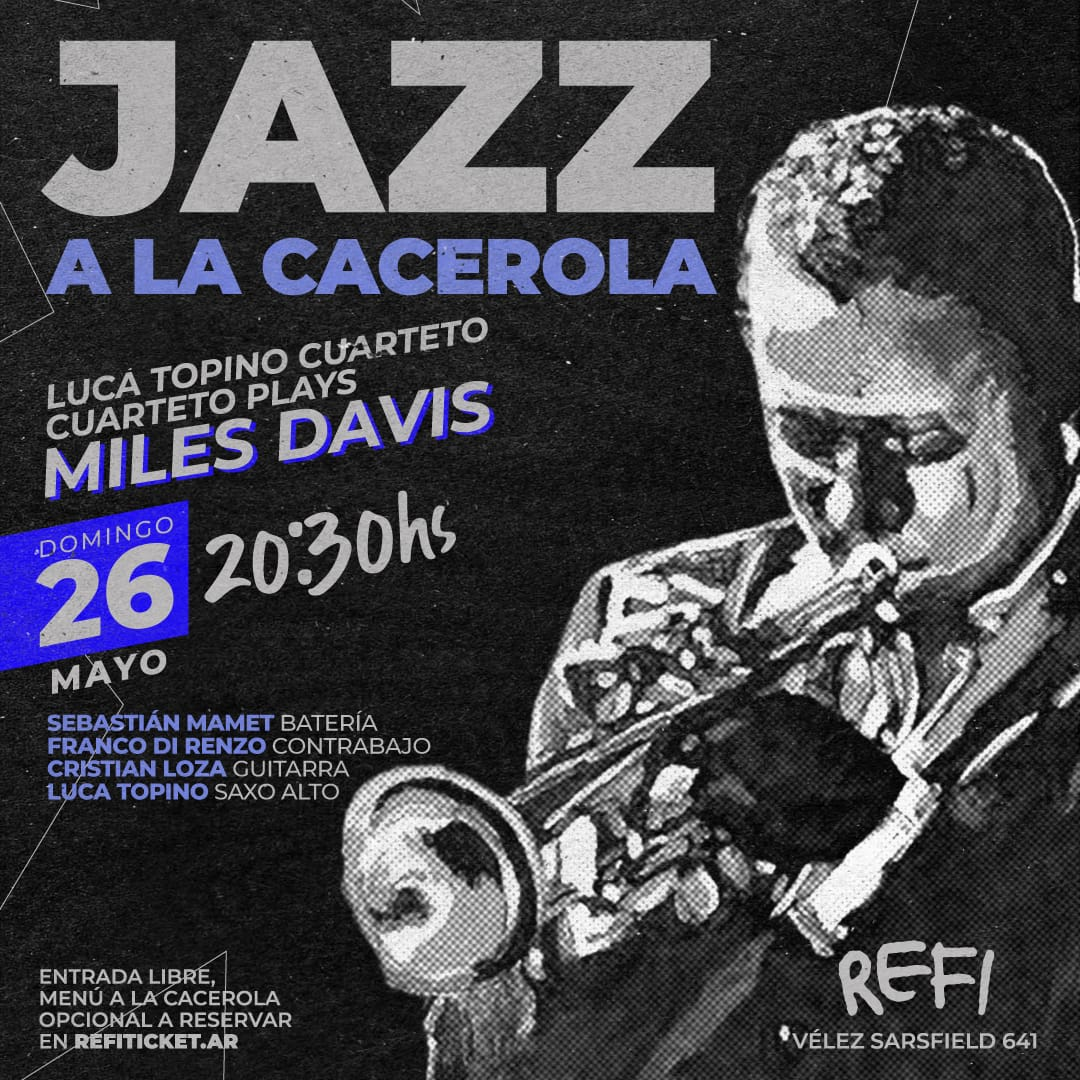
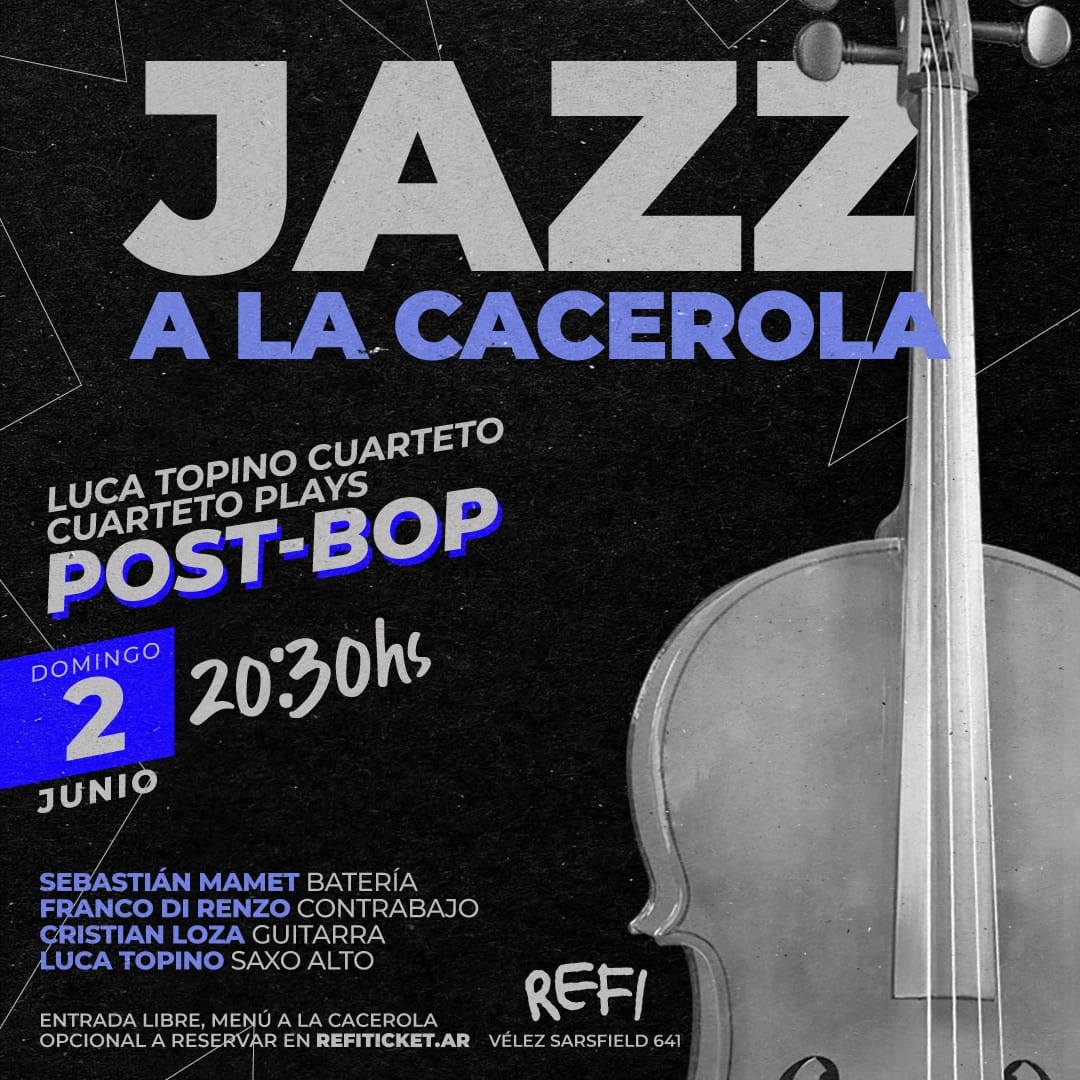
v 29-5

diff --git a/index.html b/index.html
@@ -135,7 +135,7 @@
             <div class="card-details-container">
               <div class="card-details">
                 <svg viewBox="0 0 24 24" fill="none" xmlns="http://www.w3.org/2000/svg"><g id="SVGRepo_bgCarrier" stroke-width="0"></g><g id="SVGRepo_tracerCarrier" stroke-linecap="round" stroke-linejoin="round"></g><g id="SVGRepo_iconCarrier"> <path d="M3 9H21M7 3V5M17 3V5M6 12H8M11 12H13M16 12H18M6 15H8M11 15H13M16 15H18M6 18H8M11 18H13M16 18H18M6.2 21H17.8C18.9201 21 19.4802 21 19.908 20.782C20.2843 20.5903 20.5903 20.2843 20.782 19.908C21 19.4802 21 18.9201 21 17.8V8.2C21 7.07989 21 6.51984 20.782 6.09202C20.5903 5.71569 20.2843 5.40973 19.908 5.21799C19.4802 5 18.9201 5 17.8 5H6.2C5.0799 5 4.51984 5 4.09202 5.21799C3.71569 5.40973 3.40973 5.71569 3.21799 6.09202C3 6.51984 3 7.07989 3 8.2V17.8C3 18.9201 3 19.4802 3.21799 19.908C3.40973 20.2843 3.71569 20.5903 4.09202 20.782C4.51984 21 5.07989 21 6.2 21Z" stroke="#ffffff" stroke-width="2" stroke-linecap="round"></path> </g></svg>
-                <p>Miércoles 1 de Mayo</p>
+                <p>Miércoles de Mayo</p>
               </div>
               <div class="card-details">
                 <svg viewBox="0 0 24 24" fill="none" xmlns="http://www.w3.org/2000/svg"><g id="SVGRepo_bgCarrier" stroke-width="0"></g><g id="SVGRepo_tracerCarrier" stroke-linecap="round" stroke-linejoin="round"></g><g id="SVGRepo_iconCarrier"> <path d="M12 7V12L14.5 13.5M21 12C21 16.9706 16.9706 21 12 21C7.02944 21 3 16.9706 3 12C3 7.02944 7.02944 3 12 3C16.9706 3 21 7.02944 21 12Z" stroke="#ffffff" stroke-width="2" stroke-linecap="round" stroke-linejoin="round"></path></g></svg>
@@ -194,186 +194,6 @@
           </div>
         </div>
 
-
-        <div class="event-card"
-          type="text"
-          data-toggle="collapse"
-          data-target="#mundo"
-          aria-expanded="false"
-          aria-controls="mundo">
-          <img src="./assets/mundo_propio_mayo.jpeg" alt="Evento" />
-          <h3>UN MUNDO PROPIO <br/> Taller de escritura y lectura</h3>
-          <div class="collapse" id="mundo">
-            <div class="card-details-container">
-              <div class="card-details">
-                <svg viewBox="0 0 24 24" fill="none" xmlns="http://www.w3.org/2000/svg"><g id="SVGRepo_bgCarrier" stroke-width="0"></g><g id="SVGRepo_tracerCarrier" stroke-linecap="round" stroke-linejoin="round"></g><g id="SVGRepo_iconCarrier"> <path d="M3 9H21M7 3V5M17 3V5M6 12H8M11 12H13M16 12H18M6 15H8M11 15H13M16 15H18M6 18H8M11 18H13M16 18H18M6.2 21H17.8C18.9201 21 19.4802 21 19.908 20.782C20.2843 20.5903 20.5903 20.2843 20.782 19.908C21 19.4802 21 18.9201 21 17.8V8.2C21 7.07989 21 6.51984 20.782 6.09202C20.5903 5.71569 20.2843 5.40973 19.908 5.21799C19.4802 5 18.9201 5 17.8 5H6.2C5.0799 5 4.51984 5 4.09202 5.21799C3.71569 5.40973 3.40973 5.71569 3.21799 6.09202C3 6.51984 3 7.07989 3 8.2V17.8C3 18.9201 3 19.4802 3.21799 19.908C3.40973 20.2843 3.71569 20.5903 4.09202 20.782C4.51984 21 5.07989 21 6.2 21Z" stroke="#ffffff" stroke-width="2" stroke-linecap="round"></path> </g></svg>
-                <p>Todos los martes</p>
-              </div>
-              <div class="card-details">
-                <svg viewBox="0 0 24 24" fill="none" xmlns="http://www.w3.org/2000/svg"><g id="SVGRepo_bgCarrier" stroke-width="0"></g><g id="SVGRepo_tracerCarrier" stroke-linecap="round" stroke-linejoin="round"></g><g id="SVGRepo_iconCarrier"> <path d="M12 7V12L14.5 13.5M21 12C21 16.9706 16.9706 21 12 21C7.02944 21 3 16.9706 3 12C3 7.02944 7.02944 3 12 3C16.9706 3 21 7.02944 21 12Z" stroke="#ffffff" stroke-width="2" stroke-linecap="round" stroke-linejoin="round"></path></g></svg>
-                <p>19:30 hs a 21 hs</p>
-              </div>
-              <div class="card-details">
-                <svg viewBox="0 0 24 24" fill="none" xmlns="http://www.w3.org/2000/svg"><g id="SVGRepo_bgCarrier" stroke-width="0"></g><g id="SVGRepo_tracerCarrier" stroke-linecap="round" stroke-linejoin="round"></g><g id="SVGRepo_iconCarrier"><path d="M12 21C15.5 17.4 19 14.1764 19 10.2C19 6.22355 15.866 3 12 3C8.13401 3 5 6.22355 5 10.2C5 14.1764 8.5 17.4 12 21Z" stroke="#ffffff" stroke-width="2" stroke-linecap="round" stroke-linejoin="round"></path><path d="M12 13C13.6569 13 15 11.6569 15 10C15 8.34315 13.6569 7 12 7C10.3431 7 9 8.34315 9 10C9 11.6569 10.3431 13 12 13Z" stroke="#ffffff" stroke-width="2" stroke-linecap="round" stroke-linejoin="round"></path></g></svg>
-                <p>REFI (Rosario)</p>
-              </div>
-              <div class="card-details">
-                <svg viewBox="0 0 24 24" fill="none" xmlns="http://www.w3.org/2000/svg"><g id="SVGRepo_bgCarrier" stroke-width="0"></g><g id="SVGRepo_tracerCarrier" stroke-linecap="round" stroke-linejoin="round"></g><g id="SVGRepo_iconCarrier"> <path d="M14 14H17M14 10H17M9 9.5V8.5M9 9.5H11.0001M9 9.5C7.20116 9.49996 7.00185 9.93222 7.0001 10.8325C6.99834 11.7328 7.00009 12 9.00009 12C11.0001 12 11.0001 12.2055 11.0001 13.1667C11.0001 13.889 11.0001 14.5 9.00009 14.5M9.00009 14.5L9 15.5M9.00009 14.5H7.0001M6.2 19H17.8C18.9201 19 19.4802 19 19.908 18.782C20.2843 18.5903 20.5903 18.2843 20.782 17.908C21 17.4802 21 16.9201 21 15.8V8.2C21 7.0799 21 6.51984 20.782 6.09202C20.5903 5.71569 20.2843 5.40973 19.908 5.21799C19.4802 5 18.9201 5 17.8 5H6.2C5.0799 5 4.51984 5 4.09202 5.21799C3.71569 5.40973 3.40973 5.71569 3.21799 6.09202C3 6.51984 3 7.07989 3 8.2V15.8C3 16.9201 3 17.4802 3.21799 17.908C3.40973 18.2843 3.71569 18.5903 4.09202 18.782C4.51984 19 5.07989 19 6.2 19Z" stroke="#ffffff" stroke-width="2" stroke-linecap="round" stroke-linejoin="round"></path> </g></svg>
-                <p>$12,000</p>
-              </div>
-              <button type="button" class="boton-compra btn btn-success">
-                <a href="https://refiticket.ar/UN-MUNDO-PROPIO-MAYO/">
-                  <span>CONSEGUIR ENTRADAS</span>
-                </a>
-              </button>
-            </div>
-          </div>
-        </div>
-
-
-
-        <div class="event-card"
-          type="text"
-          data-toggle="collapse"
-          data-target="#ure"
-          aria-expanded="false"
-          aria-controls="ure">
-          <img src="./assets/URE.jpeg" alt="Evento" />
-          <h3>URE</h3>
-          <div class="collapse" id="ure">
-            <div class="card-details-container">
-              <div class="card-details">
-                <svg viewBox="0 0 24 24" fill="none" xmlns="http://www.w3.org/2000/svg"><g id="SVGRepo_bgCarrier" stroke-width="0"></g><g id="SVGRepo_tracerCarrier" stroke-linecap="round" stroke-linejoin="round"></g><g id="SVGRepo_iconCarrier"> <path d="M3 9H21M7 3V5M17 3V5M6 12H8M11 12H13M16 12H18M6 15H8M11 15H13M16 15H18M6 18H8M11 18H13M16 18H18M6.2 21H17.8C18.9201 21 19.4802 21 19.908 20.782C20.2843 20.5903 20.5903 20.2843 20.782 19.908C21 19.4802 21 18.9201 21 17.8V8.2C21 7.07989 21 6.51984 20.782 6.09202C20.5903 5.71569 20.2843 5.40973 19.908 5.21799C19.4802 5 18.9201 5 17.8 5H6.2C5.0799 5 4.51984 5 4.09202 5.21799C3.71569 5.40973 3.40973 5.71569 3.21799 6.09202C3 6.51984 3 7.07989 3 8.2V17.8C3 18.9201 3 19.4802 3.21799 19.908C3.40973 20.2843 3.71569 20.5903 4.09202 20.782C4.51984 21 5.07989 21 6.2 21Z" stroke="#ffffff" stroke-width="2" stroke-linecap="round"></path> </g></svg>
-                <p>Miércoles 22 de Mayo</p>
-              </div>
-              <div class="card-details">
-                <svg viewBox="0 0 24 24" fill="none" xmlns="http://www.w3.org/2000/svg"><g id="SVGRepo_bgCarrier" stroke-width="0"></g><g id="SVGRepo_tracerCarrier" stroke-linecap="round" stroke-linejoin="round"></g><g id="SVGRepo_iconCarrier"> <path d="M12 7V12L14.5 13.5M21 12C21 16.9706 16.9706 21 12 21C7.02944 21 3 16.9706 3 12C3 7.02944 7.02944 3 12 3C16.9706 3 21 7.02944 21 12Z" stroke="#ffffff" stroke-width="2" stroke-linecap="round" stroke-linejoin="round"></path></g></svg>
-                <p>20 hs</p>
-              </div>
-              <div class="card-details">
-                <svg viewBox="0 0 24 24" fill="none" xmlns="http://www.w3.org/2000/svg"><g id="SVGRepo_bgCarrier" stroke-width="0"></g><g id="SVGRepo_tracerCarrier" stroke-linecap="round" stroke-linejoin="round"></g><g id="SVGRepo_iconCarrier"><path d="M12 21C15.5 17.4 19 14.1764 19 10.2C19 6.22355 15.866 3 12 3C8.13401 3 5 6.22355 5 10.2C5 14.1764 8.5 17.4 12 21Z" stroke="#ffffff" stroke-width="2" stroke-linecap="round" stroke-linejoin="round"></path><path d="M12 13C13.6569 13 15 11.6569 15 10C15 8.34315 13.6569 7 12 7C10.3431 7 9 8.34315 9 10C9 11.6569 10.3431 13 12 13Z" stroke="#ffffff" stroke-width="2" stroke-linecap="round" stroke-linejoin="round"></path></g></svg>
-                <p>REFI (Rosario)</p>
-              </div>
-              <div class="card-details">
-                <svg viewBox="0 0 24 24" fill="none" xmlns="http://www.w3.org/2000/svg"><g id="SVGRepo_bgCarrier" stroke-width="0"></g><g id="SVGRepo_tracerCarrier" stroke-linecap="round" stroke-linejoin="round"></g><g id="SVGRepo_iconCarrier"> <path d="M14 14H17M14 10H17M9 9.5V8.5M9 9.5H11.0001M9 9.5C7.20116 9.49996 7.00185 9.93222 7.0001 10.8325C6.99834 11.7328 7.00009 12 9.00009 12C11.0001 12 11.0001 12.2055 11.0001 13.1667C11.0001 13.889 11.0001 14.5 9.00009 14.5M9.00009 14.5L9 15.5M9.00009 14.5H7.0001M6.2 19H17.8C18.9201 19 19.4802 19 19.908 18.782C20.2843 18.5903 20.5903 18.2843 20.782 17.908C21 17.4802 21 16.9201 21 15.8V8.2C21 7.0799 21 6.51984 20.782 6.09202C20.5903 5.71569 20.2843 5.40973 19.908 5.21799C19.4802 5 18.9201 5 17.8 5H6.2C5.0799 5 4.51984 5 4.09202 5.21799C3.71569 5.40973 3.40973 5.71569 3.21799 6.09202C3 6.51984 3 7.07989 3 8.2V15.8C3 16.9201 3 17.4802 3.21799 17.908C3.40973 18.2843 3.71569 18.5903 4.09202 18.782C4.51984 19 5.07989 19 6.2 19Z" stroke="#ffffff" stroke-width="2" stroke-linecap="round" stroke-linejoin="round"></path> </g></svg>
-                <p>$4000</p>
-              </div>
-              <button type="button" class="boton-compra btn btn-success">
-                <a href="https://refiticket.ar/URE/">
-                  <span>CONSEGUIR ENTRADAS</span>
-                </a>
-              </button>
-            </div>
-          </div>
-        </div>
-
-
-        <div class="event-card"
-          type="text"
-          data-toggle="collapse"
-          data-target="#refrenando"
-          aria-expanded="false"
-          aria-controls="refrenando">
-          <img src="./assets/refrenando_mayo.jpg" alt="Evento" />
-          <h3>REFRENANDO LA IRA, FESTIVAL HEAVY METAL</h3>
-          <div class="collapse" id="refrenando">
-            <div class="card-details-container">
-              <div class="card-details">
-                <svg viewBox="0 0 24 24" fill="none" xmlns="http://www.w3.org/2000/svg"><g id="SVGRepo_bgCarrier" stroke-width="0"></g><g id="SVGRepo_tracerCarrier" stroke-linecap="round" stroke-linejoin="round"></g><g id="SVGRepo_iconCarrier"> <path d="M3 9H21M7 3V5M17 3V5M6 12H8M11 12H13M16 12H18M6 15H8M11 15H13M16 15H18M6 18H8M11 18H13M16 18H18M6.2 21H17.8C18.9201 21 19.4802 21 19.908 20.782C20.2843 20.5903 20.5903 20.2843 20.782 19.908C21 19.4802 21 18.9201 21 17.8V8.2C21 7.07989 21 6.51984 20.782 6.09202C20.5903 5.71569 20.2843 5.40973 19.908 5.21799C19.4802 5 18.9201 5 17.8 5H6.2C5.0799 5 4.51984 5 4.09202 5.21799C3.71569 5.40973 3.40973 5.71569 3.21799 6.09202C3 6.51984 3 7.07989 3 8.2V17.8C3 18.9201 3 19.4802 3.21799 19.908C3.40973 20.2843 3.71569 20.5903 4.09202 20.782C4.51984 21 5.07989 21 6.2 21Z" stroke="#ffffff" stroke-width="2" stroke-linecap="round"></path> </g></svg>
-                <p>Viernes 24 de Mayo</p>
-              </div>
-              <div class="card-details">
-                <svg viewBox="0 0 24 24" fill="none" xmlns="http://www.w3.org/2000/svg"><g id="SVGRepo_bgCarrier" stroke-width="0"></g><g id="SVGRepo_tracerCarrier" stroke-linecap="round" stroke-linejoin="round"></g><g id="SVGRepo_iconCarrier"> <path d="M12 7V12L14.5 13.5M21 12C21 16.9706 16.9706 21 12 21C7.02944 21 3 16.9706 3 12C3 7.02944 7.02944 3 12 3C16.9706 3 21 7.02944 21 12Z" stroke="#ffffff" stroke-width="2" stroke-linecap="round" stroke-linejoin="round"></path></g></svg>
-                <p>20 hs</p>
-              </div>
-              <div class="card-details">
-                <svg viewBox="0 0 24 24" fill="none" xmlns="http://www.w3.org/2000/svg"><g id="SVGRepo_bgCarrier" stroke-width="0"></g><g id="SVGRepo_tracerCarrier" stroke-linecap="round" stroke-linejoin="round"></g><g id="SVGRepo_iconCarrier"><path d="M12 21C15.5 17.4 19 14.1764 19 10.2C19 6.22355 15.866 3 12 3C8.13401 3 5 6.22355 5 10.2C5 14.1764 8.5 17.4 12 21Z" stroke="#ffffff" stroke-width="2" stroke-linecap="round" stroke-linejoin="round"></path><path d="M12 13C13.6569 13 15 11.6569 15 10C15 8.34315 13.6569 7 12 7C10.3431 7 9 8.34315 9 10C9 11.6569 10.3431 13 12 13Z" stroke="#ffffff" stroke-width="2" stroke-linecap="round" stroke-linejoin="round"></path></g></svg>
-                <p>REFI (Rosario)</p>
-              </div>
-              <div class="card-details">
-                <svg viewBox="0 0 24 24" fill="none" xmlns="http://www.w3.org/2000/svg"><g id="SVGRepo_bgCarrier" stroke-width="0"></g><g id="SVGRepo_tracerCarrier" stroke-linecap="round" stroke-linejoin="round"></g><g id="SVGRepo_iconCarrier"> <path d="M14 14H17M14 10H17M9 9.5V8.5M9 9.5H11.0001M9 9.5C7.20116 9.49996 7.00185 9.93222 7.0001 10.8325C6.99834 11.7328 7.00009 12 9.00009 12C11.0001 12 11.0001 12.2055 11.0001 13.1667C11.0001 13.889 11.0001 14.5 9.00009 14.5M9.00009 14.5L9 15.5M9.00009 14.5H7.0001M6.2 19H17.8C18.9201 19 19.4802 19 19.908 18.782C20.2843 18.5903 20.5903 18.2843 20.782 17.908C21 17.4802 21 16.9201 21 15.8V8.2C21 7.0799 21 6.51984 20.782 6.09202C20.5903 5.71569 20.2843 5.40973 19.908 5.21799C19.4802 5 18.9201 5 17.8 5H6.2C5.0799 5 4.51984 5 4.09202 5.21799C3.71569 5.40973 3.40973 5.71569 3.21799 6.09202C3 6.51984 3 7.07989 3 8.2V15.8C3 16.9201 3 17.4802 3.21799 17.908C3.40973 18.2843 3.71569 18.5903 4.09202 18.782C4.51984 19 5.07989 19 6.2 19Z" stroke="#ffffff" stroke-width="2" stroke-linecap="round" stroke-linejoin="round"></path> </g></svg>
-                <p>$2500</p>
-              </div>
-              <button type="button" class="boton-compra btn btn-success">
-                <a href="https://refiticket.ar/REFRENANDO-LA-IRA--FESTIVAL-HEAVY-METAL/">
-                  <span>CONSEGUIR ENTRADAS</span>
-                </a>
-              </button>
-            </div>
-          </div>
-        </div>
-
-
-        <div class="event-card"
-          type="text"
-          data-toggle="collapse"
-          data-target="#impacto"
-          aria-expanded="false"
-          aria-controls="impacto">
-          <img src="./assets/impacto_mayo.jpg" alt="Evento" />
-          <h3>IMPACTO DE MAYO</h3>
-          <div class="collapse" id="impacto">
-            <div class="card-details-container">
-              <div class="card-details">
-                <svg viewBox="0 0 24 24" fill="none" xmlns="http://www.w3.org/2000/svg"><g id="SVGRepo_bgCarrier" stroke-width="0"></g><g id="SVGRepo_tracerCarrier" stroke-linecap="round" stroke-linejoin="round"></g><g id="SVGRepo_iconCarrier"> <path d="M3 9H21M7 3V5M17 3V5M6 12H8M11 12H13M16 12H18M6 15H8M11 15H13M16 15H18M6 18H8M11 18H13M16 18H18M6.2 21H17.8C18.9201 21 19.4802 21 19.908 20.782C20.2843 20.5903 20.5903 20.2843 20.782 19.908C21 19.4802 21 18.9201 21 17.8V8.2C21 7.07989 21 6.51984 20.782 6.09202C20.5903 5.71569 20.2843 5.40973 19.908 5.21799C19.4802 5 18.9201 5 17.8 5H6.2C5.0799 5 4.51984 5 4.09202 5.21799C3.71569 5.40973 3.40973 5.71569 3.21799 6.09202C3 6.51984 3 7.07989 3 8.2V17.8C3 18.9201 3 19.4802 3.21799 19.908C3.40973 20.2843 3.71569 20.5903 4.09202 20.782C4.51984 21 5.07989 21 6.2 21Z" stroke="#ffffff" stroke-width="2" stroke-linecap="round"></path> </g></svg>
-                <p>Sábado 25 de Mayo</p>
-              </div>
-              <div class="card-details">
-                <svg viewBox="0 0 24 24" fill="none" xmlns="http://www.w3.org/2000/svg"><g id="SVGRepo_bgCarrier" stroke-width="0"></g><g id="SVGRepo_tracerCarrier" stroke-linecap="round" stroke-linejoin="round"></g><g id="SVGRepo_iconCarrier"> <path d="M12 7V12L14.5 13.5M21 12C21 16.9706 16.9706 21 12 21C7.02944 21 3 16.9706 3 12C3 7.02944 7.02944 3 12 3C16.9706 3 21 7.02944 21 12Z" stroke="#ffffff" stroke-width="2" stroke-linecap="round" stroke-linejoin="round"></path></g></svg>
-                <p>18 hs</p>
-              </div>
-              <div class="card-details">
-                <svg viewBox="0 0 24 24" fill="none" xmlns="http://www.w3.org/2000/svg"><g id="SVGRepo_bgCarrier" stroke-width="0"></g><g id="SVGRepo_tracerCarrier" stroke-linecap="round" stroke-linejoin="round"></g><g id="SVGRepo_iconCarrier"><path d="M12 21C15.5 17.4 19 14.1764 19 10.2C19 6.22355 15.866 3 12 3C8.13401 3 5 6.22355 5 10.2C5 14.1764 8.5 17.4 12 21Z" stroke="#ffffff" stroke-width="2" stroke-linecap="round" stroke-linejoin="round"></path><path d="M12 13C13.6569 13 15 11.6569 15 10C15 8.34315 13.6569 7 12 7C10.3431 7 9 8.34315 9 10C9 11.6569 10.3431 13 12 13Z" stroke="#ffffff" stroke-width="2" stroke-linecap="round" stroke-linejoin="round"></path></g></svg>
-                <p>REFI (Rosario)</p>
-              </div>
-              <div class="card-details">
-                <svg viewBox="0 0 24 24" fill="none" xmlns="http://www.w3.org/2000/svg"><g id="SVGRepo_bgCarrier" stroke-width="0"></g><g id="SVGRepo_tracerCarrier" stroke-linecap="round" stroke-linejoin="round"></g><g id="SVGRepo_iconCarrier"> <path d="M14 14H17M14 10H17M9 9.5V8.5M9 9.5H11.0001M9 9.5C7.20116 9.49996 7.00185 9.93222 7.0001 10.8325C6.99834 11.7328 7.00009 12 9.00009 12C11.0001 12 11.0001 12.2055 11.0001 13.1667C11.0001 13.889 11.0001 14.5 9.00009 14.5M9.00009 14.5L9 15.5M9.00009 14.5H7.0001M6.2 19H17.8C18.9201 19 19.4802 19 19.908 18.782C20.2843 18.5903 20.5903 18.2843 20.782 17.908C21 17.4802 21 16.9201 21 15.8V8.2C21 7.0799 21 6.51984 20.782 6.09202C20.5903 5.71569 20.2843 5.40973 19.908 5.21799C19.4802 5 18.9201 5 17.8 5H6.2C5.0799 5 4.51984 5 4.09202 5.21799C3.71569 5.40973 3.40973 5.71569 3.21799 6.09202C3 6.51984 3 7.07989 3 8.2V15.8C3 16.9201 3 17.4802 3.21799 17.908C3.40973 18.2843 3.71569 18.5903 4.09202 18.782C4.51984 19 5.07989 19 6.2 19Z" stroke="#ffffff" stroke-width="2" stroke-linecap="round" stroke-linejoin="round"></path> </g></svg>
-                <p>$4000</p>
-              </div>
-              <button type="button" class="boton-compra btn btn-success">
-                <a href="https://refiticket.ar/IMPACTO-DE-MAYO/">
-                  <span>CONSEGUIR ENTRADAS</span>
-                </a>
-              </button>
-            </div>
-          </div>
-        </div>
-
-
-        <div class="event-card"
-          type="text"
-          data-toggle="collapse"
-          data-target="#jazz"
-          aria-expanded="false"
-          aria-controls="jazz">
-          <img src="./assets/jazz_cacerola.jpeg" alt="Evento" />
-          <h3>JAZZ A LA CACEROLA</h3>
-          <div class="collapse" id="jazz">
-            <div class="card-details-container">
-              <div class="card-details">
-                <svg viewBox="0 0 24 24" fill="none" xmlns="http://www.w3.org/2000/svg"><g id="SVGRepo_bgCarrier" stroke-width="0"></g><g id="SVGRepo_tracerCarrier" stroke-linecap="round" stroke-linejoin="round"></g><g id="SVGRepo_iconCarrier"> <path d="M3 9H21M7 3V5M17 3V5M6 12H8M11 12H13M16 12H18M6 15H8M11 15H13M16 15H18M6 18H8M11 18H13M16 18H18M6.2 21H17.8C18.9201 21 19.4802 21 19.908 20.782C20.2843 20.5903 20.5903 20.2843 20.782 19.908C21 19.4802 21 18.9201 21 17.8V8.2C21 7.07989 21 6.51984 20.782 6.09202C20.5903 5.71569 20.2843 5.40973 19.908 5.21799C19.4802 5 18.9201 5 17.8 5H6.2C5.0799 5 4.51984 5 4.09202 5.21799C3.71569 5.40973 3.40973 5.71569 3.21799 6.09202C3 6.51984 3 7.07989 3 8.2V17.8C3 18.9201 3 19.4802 3.21799 19.908C3.40973 20.2843 3.71569 20.5903 4.09202 20.782C4.51984 21 5.07989 21 6.2 21Z" stroke="#ffffff" stroke-width="2" stroke-linecap="round"></path> </g></svg>
-                <p>Domingo 26 de Mayo</p>
-              </div>
-              <div class="card-details">
-                <svg viewBox="0 0 24 24" fill="none" xmlns="http://www.w3.org/2000/svg"><g id="SVGRepo_bgCarrier" stroke-width="0"></g><g id="SVGRepo_tracerCarrier" stroke-linecap="round" stroke-linejoin="round"></g><g id="SVGRepo_iconCarrier"> <path d="M12 7V12L14.5 13.5M21 12C21 16.9706 16.9706 21 12 21C7.02944 21 3 16.9706 3 12C3 7.02944 7.02944 3 12 3C16.9706 3 21 7.02944 21 12Z" stroke="#ffffff" stroke-width="2" stroke-linecap="round" stroke-linejoin="round"></path></g></svg>
-                <p>20:30 hs</p>
-              </div>
-              <div class="card-details">
-                <svg viewBox="0 0 24 24" fill="none" xmlns="http://www.w3.org/2000/svg"><g id="SVGRepo_bgCarrier" stroke-width="0"></g><g id="SVGRepo_tracerCarrier" stroke-linecap="round" stroke-linejoin="round"></g><g id="SVGRepo_iconCarrier"><path d="M12 21C15.5 17.4 19 14.1764 19 10.2C19 6.22355 15.866 3 12 3C8.13401 3 5 6.22355 5 10.2C5 14.1764 8.5 17.4 12 21Z" stroke="#ffffff" stroke-width="2" stroke-linecap="round" stroke-linejoin="round"></path><path d="M12 13C13.6569 13 15 11.6569 15 10C15 8.34315 13.6569 7 12 7C10.3431 7 9 8.34315 9 10C9 11.6569 10.3431 13 12 13Z" stroke="#ffffff" stroke-width="2" stroke-linecap="round" stroke-linejoin="round"></path></g></svg>
-                <p>REFI (Rosario)</p>
-              </div>
-              <div class="card-details">
-                <svg viewBox="0 0 24 24" fill="none" xmlns="http://www.w3.org/2000/svg"><g id="SVGRepo_bgCarrier" stroke-width="0"></g><g id="SVGRepo_tracerCarrier" stroke-linecap="round" stroke-linejoin="round"></g><g id="SVGRepo_iconCarrier"> <path d="M14 14H17M14 10H17M9 9.5V8.5M9 9.5H11.0001M9 9.5C7.20116 9.49996 7.00185 9.93222 7.0001 10.8325C6.99834 11.7328 7.00009 12 9.00009 12C11.0001 12 11.0001 12.2055 11.0001 13.1667C11.0001 13.889 11.0001 14.5 9.00009 14.5M9.00009 14.5L9 15.5M9.00009 14.5H7.0001M6.2 19H17.8C18.9201 19 19.4802 19 19.908 18.782C20.2843 18.5903 20.5903 18.2843 20.782 17.908C21 17.4802 21 16.9201 21 15.8V8.2C21 7.0799 21 6.51984 20.782 6.09202C20.5903 5.71569 20.2843 5.40973 19.908 5.21799C19.4802 5 18.9201 5 17.8 5H6.2C5.0799 5 4.51984 5 4.09202 5.21799C3.71569 5.40973 3.40973 5.71569 3.21799 6.09202C3 6.51984 3 7.07989 3 8.2V15.8C3 16.9201 3 17.4802 3.21799 17.908C3.40973 18.2843 3.71569 18.5903 4.09202 18.782C4.51984 19 5.07989 19 6.2 19Z" stroke="#ffffff" stroke-width="2" stroke-linecap="round" stroke-linejoin="round"></path> </g></svg>
-                <p>$9000</p>
-              </div>
-              <button type="button" class="boton-compra btn btn-success">
-                <a href="https://refiticket.ar/JAZZ-A-LA-CACEROLA/">
-                  <span>CONSEGUIR ENTRADAS</span>
-                </a>
-              </button>
-            </div>
-          </div>
-        </div>
 
 
         <div class="event-card"
@@ -483,6 +303,76 @@
           </div>
         </div>
 
+        <div class="event-card"
+          type="text"
+          data-toggle="collapse"
+          data-target="#jazz"
+          aria-expanded="false"
+          aria-controls="jazz">
+          <img src="./assets/jazz_cacerola.jpeg" alt="Evento" />
+          <h3>JAZZ A LA CACEROLA</h3>
+          <div class="collapse" id="jazz">
+            <div class="card-details-container">
+              <div class="card-details">
+                <svg viewBox="0 0 24 24" fill="none" xmlns="http://www.w3.org/2000/svg"><g id="SVGRepo_bgCarrier" stroke-width="0"></g><g id="SVGRepo_tracerCarrier" stroke-linecap="round" stroke-linejoin="round"></g><g id="SVGRepo_iconCarrier"> <path d="M3 9H21M7 3V5M17 3V5M6 12H8M11 12H13M16 12H18M6 15H8M11 15H13M16 15H18M6 18H8M11 18H13M16 18H18M6.2 21H17.8C18.9201 21 19.4802 21 19.908 20.782C20.2843 20.5903 20.5903 20.2843 20.782 19.908C21 19.4802 21 18.9201 21 17.8V8.2C21 7.07989 21 6.51984 20.782 6.09202C20.5903 5.71569 20.2843 5.40973 19.908 5.21799C19.4802 5 18.9201 5 17.8 5H6.2C5.0799 5 4.51984 5 4.09202 5.21799C3.71569 5.40973 3.40973 5.71569 3.21799 6.09202C3 6.51984 3 7.07989 3 8.2V17.8C3 18.9201 3 19.4802 3.21799 19.908C3.40973 20.2843 3.71569 20.5903 4.09202 20.782C4.51984 21 5.07989 21 6.2 21Z" stroke="#ffffff" stroke-width="2" stroke-linecap="round"></path> </g></svg>
+                <p>Domingo 2 de Junio</p>
+              </div>
+              <div class="card-details">
+                <svg viewBox="0 0 24 24" fill="none" xmlns="http://www.w3.org/2000/svg"><g id="SVGRepo_bgCarrier" stroke-width="0"></g><g id="SVGRepo_tracerCarrier" stroke-linecap="round" stroke-linejoin="round"></g><g id="SVGRepo_iconCarrier"> <path d="M12 7V12L14.5 13.5M21 12C21 16.9706 16.9706 21 12 21C7.02944 21 3 16.9706 3 12C3 7.02944 7.02944 3 12 3C16.9706 3 21 7.02944 21 12Z" stroke="#ffffff" stroke-width="2" stroke-linecap="round" stroke-linejoin="round"></path></g></svg>
+                <p>20:30 hs</p>
+              </div>
+              <div class="card-details">
+                <svg viewBox="0 0 24 24" fill="none" xmlns="http://www.w3.org/2000/svg"><g id="SVGRepo_bgCarrier" stroke-width="0"></g><g id="SVGRepo_tracerCarrier" stroke-linecap="round" stroke-linejoin="round"></g><g id="SVGRepo_iconCarrier"><path d="M12 21C15.5 17.4 19 14.1764 19 10.2C19 6.22355 15.866 3 12 3C8.13401 3 5 6.22355 5 10.2C5 14.1764 8.5 17.4 12 21Z" stroke="#ffffff" stroke-width="2" stroke-linecap="round" stroke-linejoin="round"></path><path d="M12 13C13.6569 13 15 11.6569 15 10C15 8.34315 13.6569 7 12 7C10.3431 7 9 8.34315 9 10C9 11.6569 10.3431 13 12 13Z" stroke="#ffffff" stroke-width="2" stroke-linecap="round" stroke-linejoin="round"></path></g></svg>
+                <p>REFI (Rosario)</p>
+              </div>
+              <div class="card-details">
+                <svg viewBox="0 0 24 24" fill="none" xmlns="http://www.w3.org/2000/svg"><g id="SVGRepo_bgCarrier" stroke-width="0"></g><g id="SVGRepo_tracerCarrier" stroke-linecap="round" stroke-linejoin="round"></g><g id="SVGRepo_iconCarrier"> <path d="M14 14H17M14 10H17M9 9.5V8.5M9 9.5H11.0001M9 9.5C7.20116 9.49996 7.00185 9.93222 7.0001 10.8325C6.99834 11.7328 7.00009 12 9.00009 12C11.0001 12 11.0001 12.2055 11.0001 13.1667C11.0001 13.889 11.0001 14.5 9.00009 14.5M9.00009 14.5L9 15.5M9.00009 14.5H7.0001M6.2 19H17.8C18.9201 19 19.4802 19 19.908 18.782C20.2843 18.5903 20.5903 18.2843 20.782 17.908C21 17.4802 21 16.9201 21 15.8V8.2C21 7.0799 21 6.51984 20.782 6.09202C20.5903 5.71569 20.2843 5.40973 19.908 5.21799C19.4802 5 18.9201 5 17.8 5H6.2C5.0799 5 4.51984 5 4.09202 5.21799C3.71569 5.40973 3.40973 5.71569 3.21799 6.09202C3 6.51984 3 7.07989 3 8.2V15.8C3 16.9201 3 17.4802 3.21799 17.908C3.40973 18.2843 3.71569 18.5903 4.09202 18.782C4.51984 19 5.07989 19 6.2 19Z" stroke="#ffffff" stroke-width="2" stroke-linecap="round" stroke-linejoin="round"></path> </g></svg>
+                <p>$9000</p>
+              </div>
+              <button type="button" class="boton-compra btn btn-success">
+                <a href="https://refiticket.ar/JAZZ-A-LA-CACEROLA/">
+                  <span>CONSEGUIR ENTRADAS</span>
+                </a>
+              </button>
+            </div>
+          </div>
+        </div>
+
+        <div class="event-card"
+          type="text"
+          data-toggle="collapse"
+          data-target="#otro"
+          aria-expanded="false"
+          aria-controls="otro">
+          <img src="./assets/el_otro_festival.jpeg" alt="Evento" />
+          <h3>EL OTRO FESTIVAL</h3>
+          <div class="collapse" id="otro">
+            <div class="card-details-container">
+              <div class="card-details">
+                <svg viewBox="0 0 24 24" fill="none" xmlns="http://www.w3.org/2000/svg"><g id="SVGRepo_bgCarrier" stroke-width="0"></g><g id="SVGRepo_tracerCarrier" stroke-linecap="round" stroke-linejoin="round"></g><g id="SVGRepo_iconCarrier"> <path d="M3 9H21M7 3V5M17 3V5M6 12H8M11 12H13M16 12H18M6 15H8M11 15H13M16 15H18M6 18H8M11 18H13M16 18H18M6.2 21H17.8C18.9201 21 19.4802 21 19.908 20.782C20.2843 20.5903 20.5903 20.2843 20.782 19.908C21 19.4802 21 18.9201 21 17.8V8.2C21 7.07989 21 6.51984 20.782 6.09202C20.5903 5.71569 20.2843 5.40973 19.908 5.21799C19.4802 5 18.9201 5 17.8 5H6.2C5.0799 5 4.51984 5 4.09202 5.21799C3.71569 5.40973 3.40973 5.71569 3.21799 6.09202C3 6.51984 3 7.07989 3 8.2V17.8C3 18.9201 3 19.4802 3.21799 19.908C3.40973 20.2843 3.71569 20.5903 4.09202 20.782C4.51984 21 5.07989 21 6.2 21Z" stroke="#ffffff" stroke-width="2" stroke-linecap="round"></path> </g></svg>
+                <p>Miércoles 5 de Junio</p>
+              </div>
+              <div class="card-details">
+                <svg viewBox="0 0 24 24" fill="none" xmlns="http://www.w3.org/2000/svg"><g id="SVGRepo_bgCarrier" stroke-width="0"></g><g id="SVGRepo_tracerCarrier" stroke-linecap="round" stroke-linejoin="round"></g><g id="SVGRepo_iconCarrier"> <path d="M12 7V12L14.5 13.5M21 12C21 16.9706 16.9706 21 12 21C7.02944 21 3 16.9706 3 12C3 7.02944 7.02944 3 12 3C16.9706 3 21 7.02944 21 12Z" stroke="#ffffff" stroke-width="2" stroke-linecap="round" stroke-linejoin="round"></path></g></svg>
+                <p>18 hs</p>
+              </div>
+              <div class="card-details">
+                <svg viewBox="0 0 24 24" fill="none" xmlns="http://www.w3.org/2000/svg"><g id="SVGRepo_bgCarrier" stroke-width="0"></g><g id="SVGRepo_tracerCarrier" stroke-linecap="round" stroke-linejoin="round"></g><g id="SVGRepo_iconCarrier"><path d="M12 21C15.5 17.4 19 14.1764 19 10.2C19 6.22355 15.866 3 12 3C8.13401 3 5 6.22355 5 10.2C5 14.1764 8.5 17.4 12 21Z" stroke="#ffffff" stroke-width="2" stroke-linecap="round" stroke-linejoin="round"></path><path d="M12 13C13.6569 13 15 11.6569 15 10C15 8.34315 13.6569 7 12 7C10.3431 7 9 8.34315 9 10C9 11.6569 10.3431 13 12 13Z" stroke="#ffffff" stroke-width="2" stroke-linecap="round" stroke-linejoin="round"></path></g></svg>
+                <p>REFI (Rosario)</p>
+              </div>
+              <div class="card-details">
+                <svg viewBox="0 0 24 24" fill="none" xmlns="http://www.w3.org/2000/svg"><g id="SVGRepo_bgCarrier" stroke-width="0"></g><g id="SVGRepo_tracerCarrier" stroke-linecap="round" stroke-linejoin="round"></g><g id="SVGRepo_iconCarrier"> <path d="M14 14H17M14 10H17M9 9.5V8.5M9 9.5H11.0001M9 9.5C7.20116 9.49996 7.00185 9.93222 7.0001 10.8325C6.99834 11.7328 7.00009 12 9.00009 12C11.0001 12 11.0001 12.2055 11.0001 13.1667C11.0001 13.889 11.0001 14.5 9.00009 14.5M9.00009 14.5L9 15.5M9.00009 14.5H7.0001M6.2 19H17.8C18.9201 19 19.4802 19 19.908 18.782C20.2843 18.5903 20.5903 18.2843 20.782 17.908C21 17.4802 21 16.9201 21 15.8V8.2C21 7.0799 21 6.51984 20.782 6.09202C20.5903 5.71569 20.2843 5.40973 19.908 5.21799C19.4802 5 18.9201 5 17.8 5H6.2C5.0799 5 4.51984 5 4.09202 5.21799C3.71569 5.40973 3.40973 5.71569 3.21799 6.09202C3 6.51984 3 7.07989 3 8.2V15.8C3 16.9201 3 17.4802 3.21799 17.908C3.40973 18.2843 3.71569 18.5903 4.09202 18.782C4.51984 19 5.07989 19 6.2 19Z" stroke="#ffffff" stroke-width="2" stroke-linecap="round" stroke-linejoin="round"></path> </g></svg>
+                <p>Gratuito</p>
+              </div>
+              <button type="button" class="boton-compra btn btn-success">
+                <a href="https://refiticket.ar/EL-OTRO-FESTIVAL/">
+                  <span>CONSEGUIR ENTRADAS</span>
+                </a>
+              </button>
+            </div>
+          </div>
+        </div>
+
 
         <div class="event-card"
           type="text"
@@ -584,6 +474,42 @@
               </div>
               <button type="button" class="boton-compra btn btn-success">
                 <a href="https://refiticket.ar/ULTIMA-FRECUENCIA-/">
+                  <span>CONSEGUIR ENTRADAS</span>
+                </a>
+              </button>
+            </div>
+          </div>
+        </div>
+
+
+        <div class="event-card"
+          type="text"
+          data-toggle="collapse"
+          data-target="#killer"
+          aria-expanded="false"
+          aria-controls="killer">
+          <img src="./assets/killer_burritos.jpeg" alt="Evento" />
+          <h3>KILLER BURRITOS</h3>
+          <div class="collapse" id="killer">
+            <div class="card-details-container">
+              <div class="card-details">
+                <svg viewBox="0 0 24 24" fill="none" xmlns="http://www.w3.org/2000/svg"><g id="SVGRepo_bgCarrier" stroke-width="0"></g><g id="SVGRepo_tracerCarrier" stroke-linecap="round" stroke-linejoin="round"></g><g id="SVGRepo_iconCarrier"> <path d="M3 9H21M7 3V5M17 3V5M6 12H8M11 12H13M16 12H18M6 15H8M11 15H13M16 15H18M6 18H8M11 18H13M16 18H18M6.2 21H17.8C18.9201 21 19.4802 21 19.908 20.782C20.2843 20.5903 20.5903 20.2843 20.782 19.908C21 19.4802 21 18.9201 21 17.8V8.2C21 7.07989 21 6.51984 20.782 6.09202C20.5903 5.71569 20.2843 5.40973 19.908 5.21799C19.4802 5 18.9201 5 17.8 5H6.2C5.0799 5 4.51984 5 4.09202 5.21799C3.71569 5.40973 3.40973 5.71569 3.21799 6.09202C3 6.51984 3 7.07989 3 8.2V17.8C3 18.9201 3 19.4802 3.21799 19.908C3.40973 20.2843 3.71569 20.5903 4.09202 20.782C4.51984 21 5.07989 21 6.2 21Z" stroke="#ffffff" stroke-width="2" stroke-linecap="round"></path> </g></svg>
+                <p>Viernes 14 de Junio</p>
+              </div>
+              <div class="card-details">
+                <svg viewBox="0 0 24 24" fill="none" xmlns="http://www.w3.org/2000/svg"><g id="SVGRepo_bgCarrier" stroke-width="0"></g><g id="SVGRepo_tracerCarrier" stroke-linecap="round" stroke-linejoin="round"></g><g id="SVGRepo_iconCarrier"> <path d="M12 7V12L14.5 13.5M21 12C21 16.9706 16.9706 21 12 21C7.02944 21 3 16.9706 3 12C3 7.02944 7.02944 3 12 3C16.9706 3 21 7.02944 21 12Z" stroke="#ffffff" stroke-width="2" stroke-linecap="round" stroke-linejoin="round"></path></g></svg>
+                <p>20:58 hs</p>
+              </div>
+              <div class="card-details">
+                <svg viewBox="0 0 24 24" fill="none" xmlns="http://www.w3.org/2000/svg"><g id="SVGRepo_bgCarrier" stroke-width="0"></g><g id="SVGRepo_tracerCarrier" stroke-linecap="round" stroke-linejoin="round"></g><g id="SVGRepo_iconCarrier"><path d="M12 21C15.5 17.4 19 14.1764 19 10.2C19 6.22355 15.866 3 12 3C8.13401 3 5 6.22355 5 10.2C5 14.1764 8.5 17.4 12 21Z" stroke="#ffffff" stroke-width="2" stroke-linecap="round" stroke-linejoin="round"></path><path d="M12 13C13.6569 13 15 11.6569 15 10C15 8.34315 13.6569 7 12 7C10.3431 7 9 8.34315 9 10C9 11.6569 10.3431 13 12 13Z" stroke="#ffffff" stroke-width="2" stroke-linecap="round" stroke-linejoin="round"></path></g></svg>
+                <p>REFI (Rosario)</p>
+              </div>
+              <div class="card-details">
+                <svg viewBox="0 0 24 24" fill="none" xmlns="http://www.w3.org/2000/svg"><g id="SVGRepo_bgCarrier" stroke-width="0"></g><g id="SVGRepo_tracerCarrier" stroke-linecap="round" stroke-linejoin="round"></g><g id="SVGRepo_iconCarrier"> <path d="M14 14H17M14 10H17M9 9.5V8.5M9 9.5H11.0001M9 9.5C7.20116 9.49996 7.00185 9.93222 7.0001 10.8325C6.99834 11.7328 7.00009 12 9.00009 12C11.0001 12 11.0001 12.2055 11.0001 13.1667C11.0001 13.889 11.0001 14.5 9.00009 14.5M9.00009 14.5L9 15.5M9.00009 14.5H7.0001M6.2 19H17.8C18.9201 19 19.4802 19 19.908 18.782C20.2843 18.5903 20.5903 18.2843 20.782 17.908C21 17.4802 21 16.9201 21 15.8V8.2C21 7.0799 21 6.51984 20.782 6.09202C20.5903 5.71569 20.2843 5.40973 19.908 5.21799C19.4802 5 18.9201 5 17.8 5H6.2C5.0799 5 4.51984 5 4.09202 5.21799C3.71569 5.40973 3.40973 5.71569 3.21799 6.09202C3 6.51984 3 7.07989 3 8.2V15.8C3 16.9201 3 17.4802 3.21799 17.908C3.40973 18.2843 3.71569 18.5903 4.09202 18.782C4.51984 19 5.07989 19 6.2 19Z" stroke="#ffffff" stroke-width="2" stroke-linecap="round" stroke-linejoin="round"></path> </g></svg>
+                <p>$2000</p>
+              </div>
+              <button type="button" class="boton-compra btn btn-success">
+                <a href="https://refiticket.ar/KILLER-BURRITOS/">
                   <span>CONSEGUIR ENTRADAS</span>
                 </a>
               </button>
